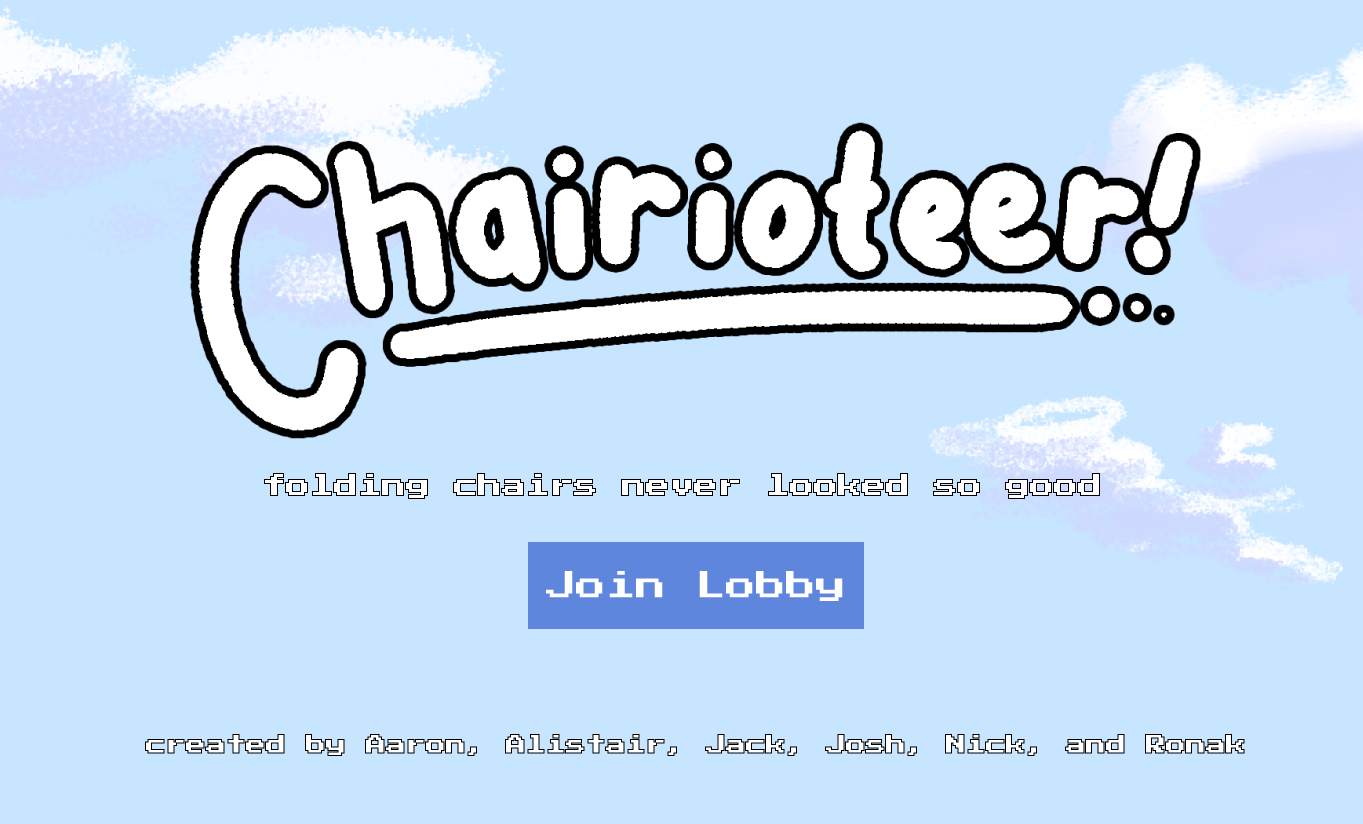
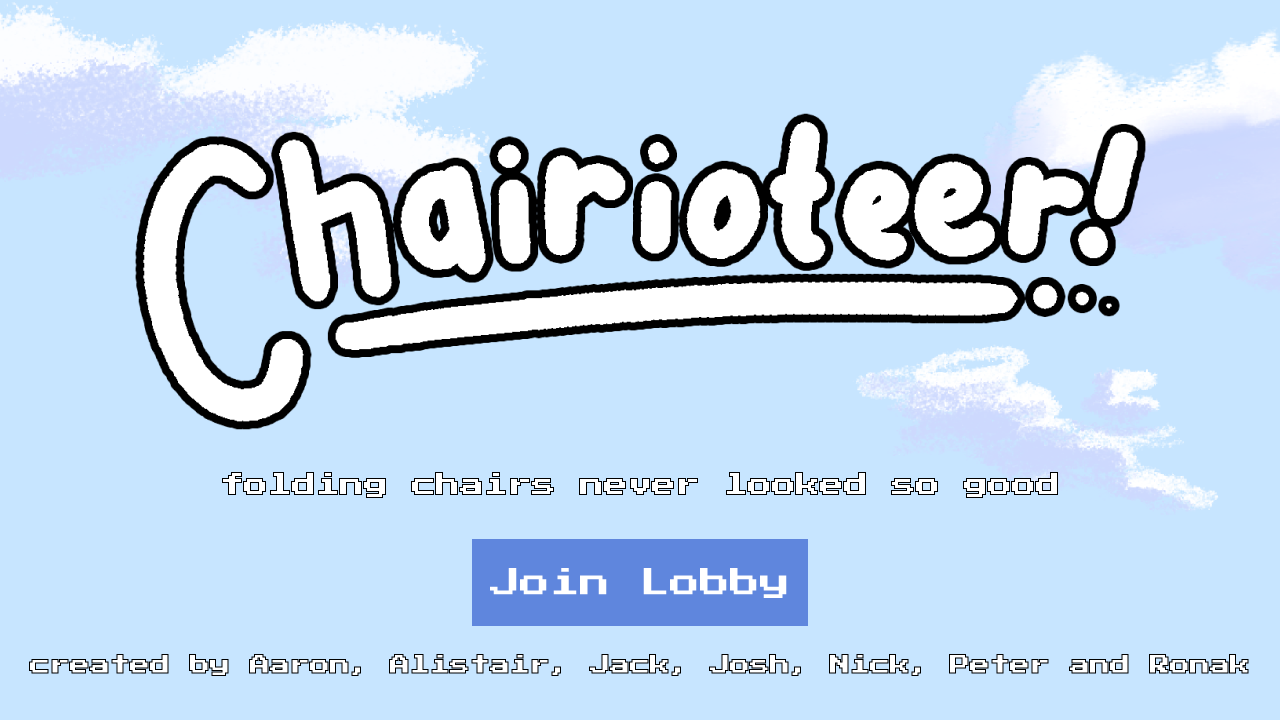
updated bg to match 1280x720

diff --git a/chariot-client/src/ui_state.rs b/chariot-client/src/ui_state.rs
@@ -196,7 +196,7 @@ impl GraphicsManager {
         self.ui = UIState::MainMenu { background };
 
         // join lobby button
-        let mut join_lobby_button = UIRegion::new(472.0, 452.0, 336.0, 87.0);
+        let mut join_lobby_button = UIRegion::new(472.0, 539.0, 336.0, 87.0);
         join_lobby_button.on_click(|graphics, game| {
             graphics.display_chairacter_select();
             game.pick_chair(Chair::Swivel);
